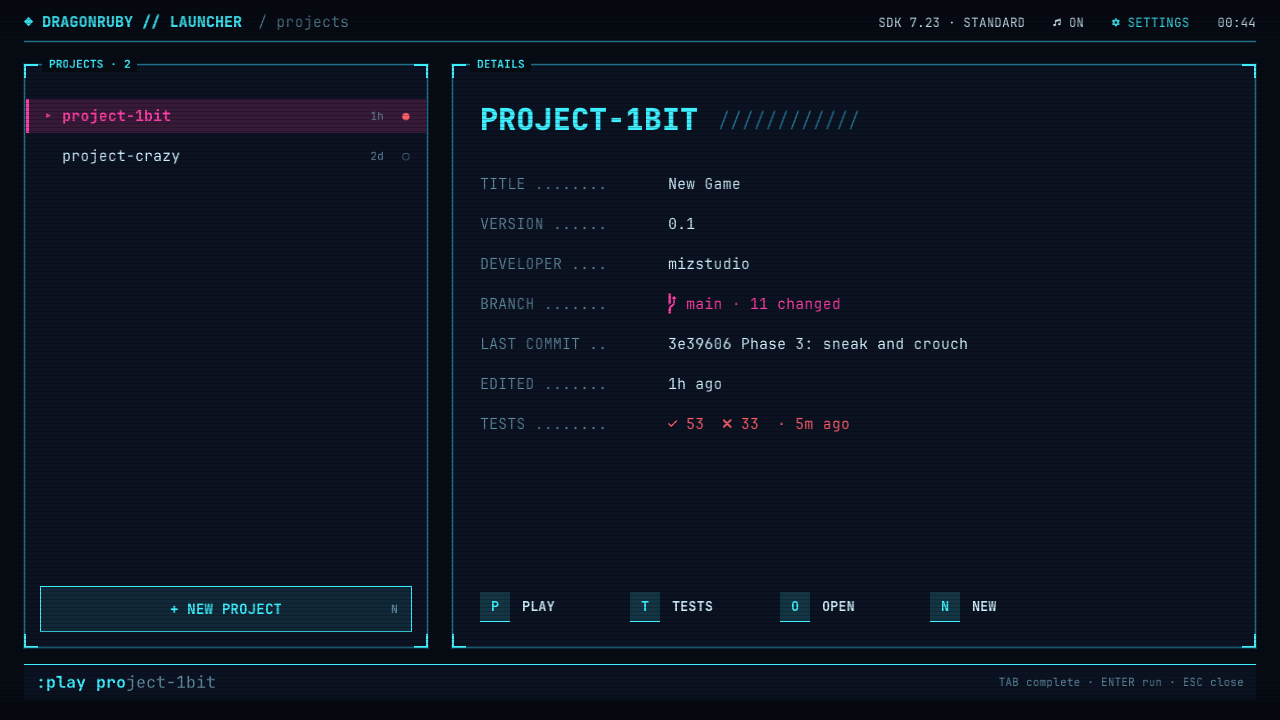
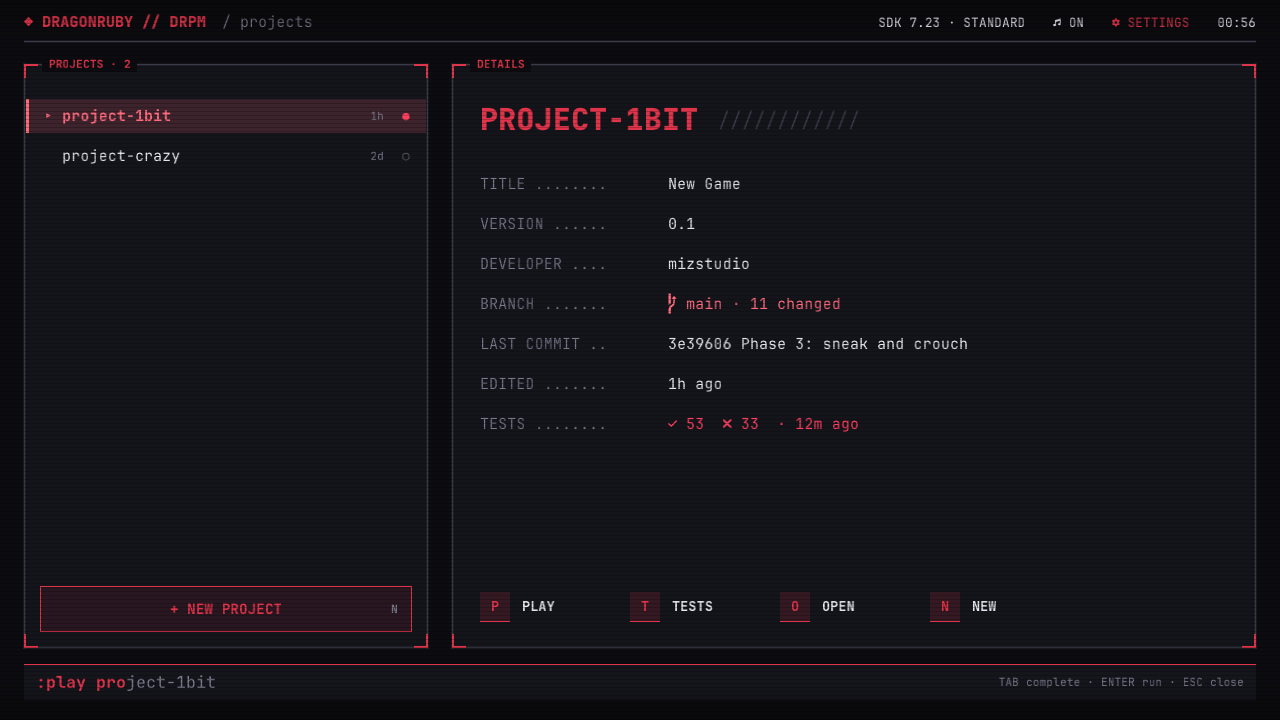
README, MIT license, screenshots; SDK and games live outside the repo
The SDK, projects and templates moved out to sit beside DRPM, so the repo is just the
app. README covers the story, setup from source, first-run Setup, keys, building with
dragonruby-publish (the game folder must be copied inside the SDK) and macOS (build on
your own Mac). Screenshots re-shot from the new layout, Setup and Settings > FOLDERS added.

diff --git a/README.md b/README.md
@@ -1,0 +1,172 @@
+# DRPM — DragonRuby Project Manager
+
+A launcher and project manager for [DragonRuby Game Toolkit](https://dragonruby.org), built in DragonRuby itself.
+Pick a game, play it, run its tests, start a new one from a template. No terminal, no links inside the SDK.
+
+![DRPM projects screen](docs/screenshots/02_projects.png)
+
+## How this happened
+
+I should have been working on my game. Instead, I got tired of going to the terminal every time I wanted to run
+or test it, and decided to use the engine to build a launcher and manager for it. Then I used Claude Code to get
+the tool running quickly, and couldn't stop adding things: a boot sequence, a command bar, live test runs, four
+themes… The game is still waiting.
+
+## What it does
+
+- **Projects** — every game in your projects folder, last edited first, with its title, version, git branch and
+  changes, last commit, and last test result.
+- **Play** — starts the game in its own window. DRPM keeps running.
+- **Tests** — runs one test file or all of them in the background, with no windows. Shows a progress bar, the
+  totals and the failed tests. Results are kept between runs.
+- **New project** — copies a template into your projects folder, sets `gameid` and `gametitle`, and runs `git init`.
+- **Command bar** — `:play`, `:test`, `:open`, `:new`, `:git status`, `:git log`, `:theme`, `:settings`, `:help`, `:quit`,
+  with Tab completion.
+- **Settings** — four themes (Ruby, Neon, Amber, Acid), sound on/off, and the folders DRPM uses.
+- **SDK info** — the header shows the version and license tier of the SDK you pointed it at.
+
+| | |
+|---|---|
+| ![Boot](docs/screenshots/01_boot.png) | ![Tests running](docs/screenshots/14_tests_running.png) |
+| ![Setup](docs/screenshots/10_setup.png) | ![Themes](docs/screenshots/07_settings_themes.png) |
+| ![Command bar](docs/screenshots/05_command_bar.png) | ![New project](docs/screenshots/04_new_project_form.png) |
+
+## Requirements
+
+- **Your own DragonRuby GTK SDK**, any tier (Standard is enough). DRPM never ships the SDK; its license doesn't
+  allow sharing it, so you download it from [dragonruby.org](https://dragonruby.org) yourself.
+- **Linux** (tested) or **macOS** (supported, not yet tested — reports welcome). Windows isn't supported: DRPM runs
+  `sh` commands.
+- `git`, plus the usual command-line tools: `tar`, `sed`, `find`, `stat`, and `xdg-open` (Linux) or `open` (macOS).
+
+## Setup
+
+You can run DRPM from source with your SDK, or use a build.
+
+### Run from source
+
+1. Unzip your DragonRuby SDK anywhere, e.g. `~/DragonRuby/sdk/dragonruby-linux-amd64`.
+2. Clone this repo anywhere, e.g. `~/DragonRuby/drpm`.
+3. Run it from the SDK folder, giving the path to DRPM:
+
+   ```sh
+   cd ~/DragonRuby/sdk/dragonruby-linux-amd64
+   ./dragonruby ~/DragonRuby/drpm
+   ```
+
+DragonRuby runs a game from any path, so neither DRPM nor your games need to be inside the SDK folder.
+
+### First run
+
+DRPM asks where your things are:
+
+![Setup](docs/screenshots/10_setup.png)
+
+| Folder | What it is |
+|---|---|
+| **SDK folder** | The unzipped `dragonruby-<platform>` folder, with `./dragonruby` in it. |
+| **Projects folder** | Where your games are: one folder per game, each with `app/main.rb`. It can be the SDK folder itself, if that's where you keep your games (its own `mygame/` is hidden). |
+| **Templates folder** | Optional. Each folder in it is a starting point for New project. The SDK's own `mygame/` is always offered too. |
+
+Fields are checked as you go, Tab completes folder names, and SAVE takes you to your projects.
+You can change them later in **Settings → FOLDERS**.
+
+A layout that works well:
+
+```
+~/DragonRuby/
+  sdk/dragonruby-linux-amd64/
+  drpm/
+  projects/   my-game/  other-game/
+  templates/  my-template/
+```
+
+### App menu entry (Linux, optional)
+
+Save as `~/.local/share/applications/drpm.desktop`, with your own paths:
+
+```ini
+[Desktop Entry]
+Type=Application
+Name=DRPM
+Exec=sh -c "cd /home/you/DragonRuby/sdk/dragonruby-linux-amd64 && ./dragonruby ../../drpm"
+Icon=/home/you/DragonRuby/sdk/dragonruby-linux-amd64/dragonruby.png
+Terminal=false
+Categories=Development;
+```
+
+## Using it
+
+| Key | Does |
+|---|---|
+| `↑` `↓` | Select a game (the last item is **+ NEW PROJECT**) |
+| `P` / `Enter` | Play |
+| `T` | Tests |
+| `O` | Open the game's folder |
+| `N` | New project |
+| `S` | Settings |
+| `M` | Sound on/off |
+| `:` | Command bar (`:help` lists the commands) |
+| `Esc` | Back |
+
+The mouse works too: click a game, an action, + NEW PROJECT, or ⚙ SETTINGS in the header.
+
+A test run keeps going if you leave the tests screen. The main screen shows its progress, and a chime (or a low
+tone) tells you when it's done.
+
+## Build
+
+DragonRuby's `dragonruby-publish` packages DRPM like any game. It only packages a game that is a real folder
+**inside** the SDK folder (not a path elsewhere, and not a link), so copy DRPM in first:
+
+```sh
+cd ~/DragonRuby/sdk/dragonruby-linux-amd64
+rm -rf drpm && cp -r ~/DragonRuby/drpm drpm && rm -rf drpm/.git drpm/state
+./dragonruby-publish --platforms=linux-amd64 --package drpm
+```
+
+The packages land in the SDK's `builds/` folder: `drpm-linux-amd64.bin` and `drpm-linux-amd64.zip`.
+A build runs from anywhere and shows Setup on first start. It keeps its settings and test results in your
+user data folder (`~/.local/share/DRPM` on Linux) instead of `state/`.
+
+### macOS
+
+DRPM's commands support macOS, but there's no macOS build to download. If you want one, **build it on your own
+Mac with your macOS SDK**:
+
+```sh
+cd ~/DragonRuby/sdk/dragonruby-macos
+rm -rf drpm && cp -r ~/DragonRuby/drpm drpm && rm -rf drpm/.git drpm/state
+./dragonruby-publish --platforms=macos --package drpm
+```
+
+The app isn't signed, so macOS warns you the first time: right-click it and choose **Open**. You can also just run
+DRPM from source with `./dragonruby ~/DragonRuby/drpm`.
+
+## Working on DRPM
+
+Run the tests from the SDK folder:
+
+```sh
+./dragonruby ~/DragonRuby/drpm --test tests/projects_test.rb
+```
+
+The test files are `command_test.rb`, `info_test.rb`, `new_project_test.rb`, `projects_test.rb`, `shell_test.rb`
+and `test_run_test.rb`. Scenes aren't unit tested. `rubocop` (config in `.rubocop.yml`) checks the style.
+
+| Where | What |
+|---|---|
+| `app/shell.rb` | Every shell command DRPM runs, built from the configured folders |
+| `app/paths.rb`, `app/settings.rb` | The three folders, theme and sound, saved in `state/settings.txt` |
+| `app/projects.rb`, `meta.rb`, `git_info.rb`, `sdk_info.rb` | What DRPM reads about your games and SDK |
+| `app/test_run.rb`, `test_log.rb`, `results.rb` | Background test runs and their results |
+| `app/theme.rb`, `app/ui/` | Palettes, fonts, HUD drawing and effects |
+| `app/scenes/` | Boot, setup, main, tests, settings |
+| `tools/make_blips.py` | Generates the UI sounds in `sounds/` |
+
+## Credits and licenses
+
+- DRPM's code: [MIT](LICENSE), © 2026 Miguel Almeida.
+- Font: [JetBrainsMono Nerd Font](https://www.nerdfonts.com), SIL Open Font License (`fonts/OFL.txt`).
+- Sounds: generated by `tools/make_blips.py`.
+- DragonRuby Game Toolkit isn't included; you need your own copy, under its own license.
